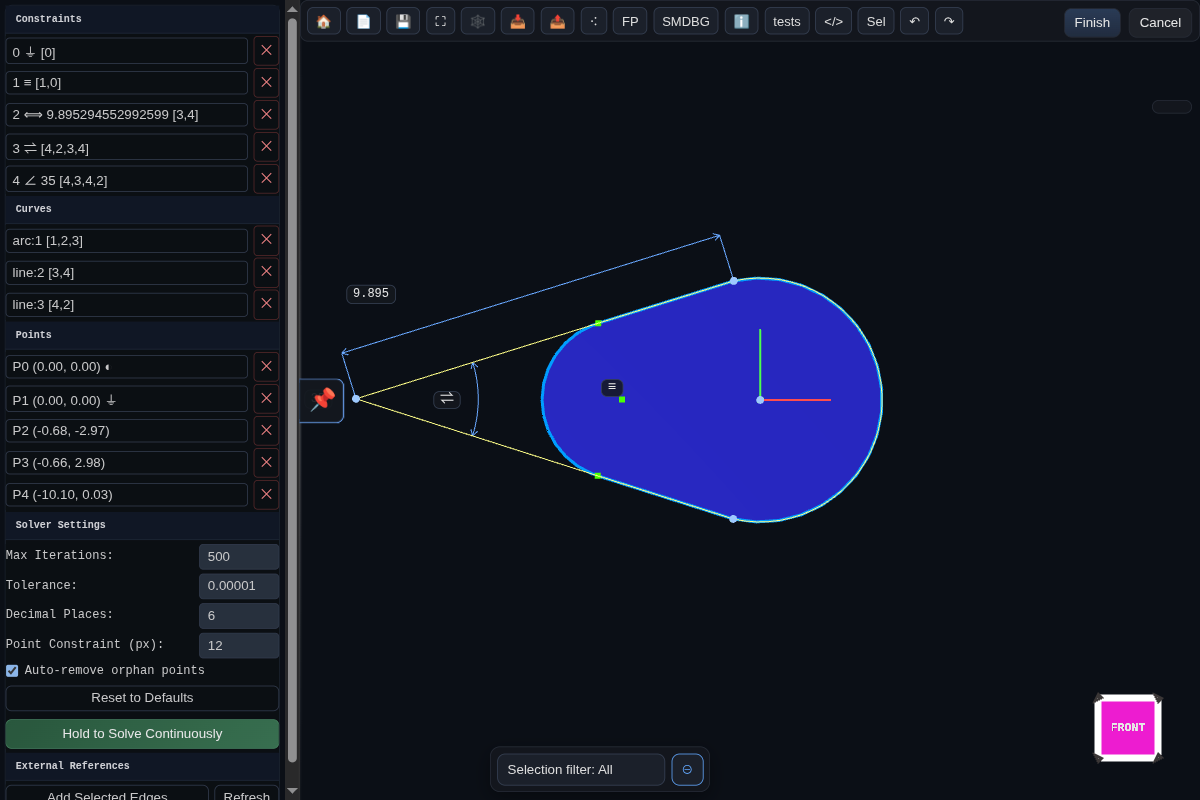
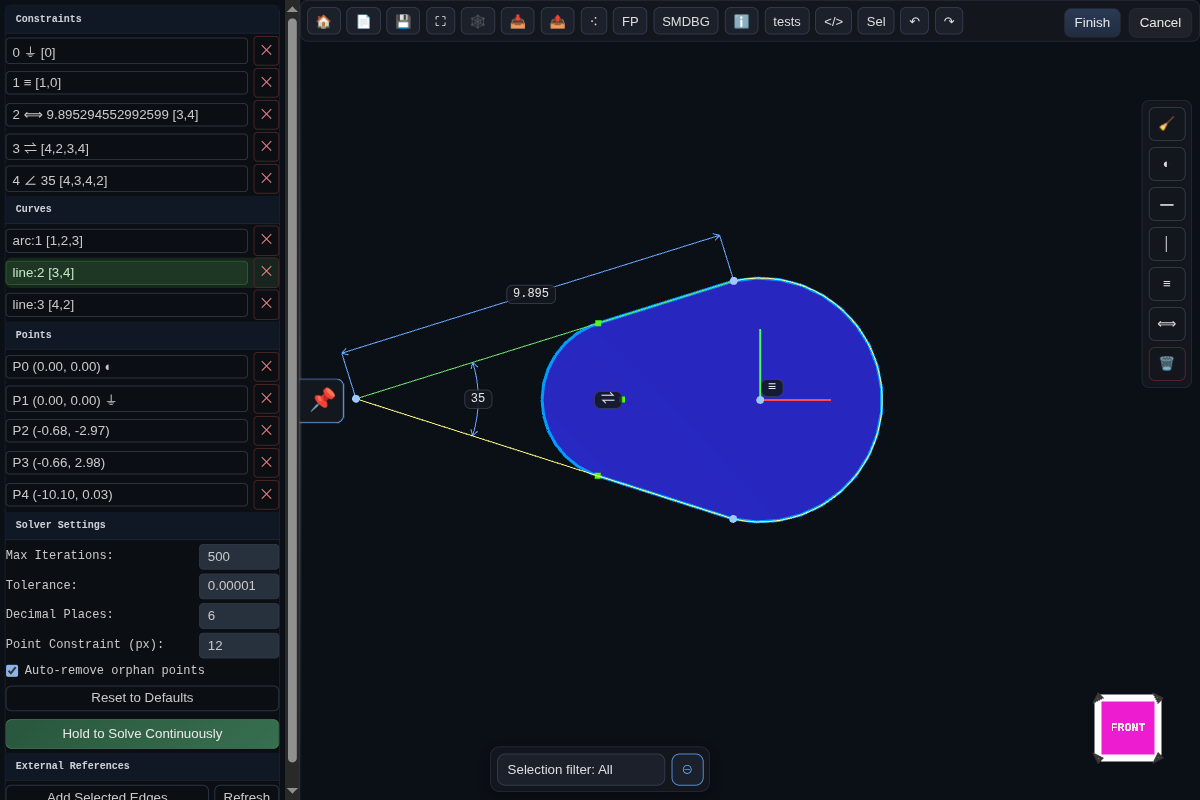
Docs code snippets code highlighting widget

diff --git a/generateLicenses.js b/generateLicenses.js
@@ -88,8 +88,22 @@ h1{margin:0 0 18px;font-size:22px;color:var(--accent);font-weight:700}
 .prose p{margin:0 0 10px}
 .prose ul,.prose ol{margin:0 0 10px 18px}
 .prose li{margin:4px 0}
-.prose code{background:#0d1520;border:1px solid var(--border);padding:1px 5px;border-radius:6px;font-family:ui-monospace,SFMono-Regular,Menlo,Consolas,'Liberation Mono','Courier New',monospace;font-size:12px}
-.prose pre{background:#0d1520;border:1px solid var(--border);padding:12px;border-radius:12px;overflow:auto}
+.prose :not(pre)>code{background:#0d1520;border:1px solid var(--border);padding:1px 5px;border-radius:6px;font-family:ui-monospace,SFMono-Regular,Menlo,Consolas,'Liberation Mono','Courier New',monospace;font-size:12px}
+.prose pre{margin:0;overflow:auto}
+.prose pre code{display:block;border:0;background:transparent;padding:0;white-space:pre;font-family:ui-monospace,SFMono-Regular,Menlo,Consolas,'Liberation Mono','Courier New',monospace;font-size:13px;line-height:1.55;color:#eef4ff}
+.prose .doc-codeblock{margin:14px 0;background:#1a2131;border:1px solid #3a4b74;border-radius:12px;overflow:hidden}
+.prose .doc-codeblock-header{display:flex;align-items:center;justify-content:space-between;gap:12px;padding:10px 14px;background:#2a3247;border-bottom:1px solid #3a4b74}
+.prose .doc-codeblock-lang{font-size:20px;line-height:1;color:#e7efff;text-transform:lowercase}
+.prose .doc-codeblock-body{padding:14px}
+.prose .doc-codeblock-copy{display:inline-flex;align-items:center;justify-content:center;width:30px;height:30px;border:1px solid transparent;border-radius:8px;background:transparent;color:#9fc5ff;cursor:pointer}
+.prose .doc-codeblock-copy:hover,.prose .doc-codeblock-copy:focus-visible{border-color:#4f6494;background:rgba(159,197,255,0.08);outline:none}
+.prose .doc-codeblock-copy-icon{display:block;width:18px;height:18px}
+.prose .doc-codeblock-copy-icon svg{display:block;width:100%;height:100%}
+.prose .doc-codeblock-copy.is-copied{color:#a8ffd4}
+.prose .doc-codeblock-copy.is-copied .doc-codeblock-copy-icon svg rect{stroke:currentColor}
+.prose .doc-codeblock-js .tok-keyword{color:#d68dff;font-weight:600}
+.prose .doc-codeblock-js .tok-string{color:#7be3a3}
+.prose .doc-codeblock-js .tok-comment{color:#76839f}
 .prose a{color:var(--accent)}
 .prose img{max-width:100%;height:auto;}
 .prose img.doc-gallery-trigger{cursor:zoom-in}
@@ -503,13 +517,81 @@ function parseTable(tableLines) {
   return { headers, alignments, dataRows };
 }
 
+const normalizeCodeLanguage = (rawLanguage = "") => {
+  const firstToken = String(rawLanguage || "").trim().split(/\s+/)[0].toLowerCase();
+  if (!firstToken) return "";
+  if (firstToken === "js" || firstToken === "cjs" || firstToken === "mjs") return "javascript";
+  if (firstToken === "ts" || firstToken === "tsx") return "typescript";
+  if (firstToken === "sh" || firstToken === "shell" || firstToken === "zsh") return "bash";
+  if (firstToken === "yml") return "yaml";
+  return firstToken;
+};
+
+const highlightJavaScriptCode = (rawCode = "") => {
+  const source = String(rawCode ?? "");
+  const tokenRegex = /(\/\/[^\n]*|\/\*[\s\S]*?\*\/|"(?:\\.|[^"\\])*"|'(?:\\.|[^'\\])*'|`(?:\\.|[^`\\])*`|\b(?:const|let|var|function|return|if|else|for|while|switch|case|break|continue|new|class|extends|import|from|export|default|try|catch|finally|throw|await|async|typeof|instanceof|in|of|null|undefined|true|false)\b)/g;
+  let out = "";
+  let lastIdx = 0;
+  for (const match of source.matchAll(tokenRegex)) {
+    const idx = Number(match.index || 0);
+    const token = match[0] || "";
+    out += escape(source.slice(lastIdx, idx));
+    if (token.startsWith("//") || token.startsWith("/*")) {
+      out += `<span class="tok-comment">${escape(token)}</span>`;
+    } else if (token.startsWith('"') || token.startsWith("'") || token.startsWith("`")) {
+      out += `<span class="tok-string">${escape(token)}</span>`;
+    } else {
+      out += `<span class="tok-keyword">${escape(token)}</span>`;
+    }
+    lastIdx = idx + token.length;
+  }
+  out += escape(source.slice(lastIdx));
+  return out;
+};
+
+const renderFencedCodeBlock = ({ language = "", code = "" } = {}) => {
+  const normalizedLanguage = normalizeCodeLanguage(language) || "code";
+  const languageLabel = escape(normalizedLanguage);
+  const languageClass = escape(normalizedLanguage.replace(/[^a-z0-9_-]/gi, "-"));
+  const codeText = String(code ?? "").replace(/\s+$/, "");
+  const codeHtml = normalizedLanguage === "javascript"
+    ? highlightJavaScriptCode(codeText)
+    : escape(codeText);
+  const codeBlockClass = normalizedLanguage === "javascript" ? "doc-codeblock doc-codeblock-js" : "doc-codeblock";
+  return `<div class="${codeBlockClass}" data-code-language="${languageLabel}">
+  <div class="doc-codeblock-header">
+    <span class="doc-codeblock-lang">${languageLabel}</span>
+    <button type="button" class="doc-codeblock-copy" data-copy-code aria-label="Copy code" title="Copy code">
+      <span class="doc-codeblock-copy-icon" aria-hidden="true">
+        <svg viewBox="0 0 24 24" fill="none">
+          <rect x="9" y="3" width="12" height="16" rx="2" stroke="currentColor" stroke-width="2"></rect>
+          <rect x="3" y="9" width="12" height="12" rx="2" stroke="currentColor" stroke-width="2"></rect>
+        </svg>
+      </span>
+    </button>
+  </div>
+  <div class="doc-codeblock-body"><pre><code class="language-${languageClass}">${codeHtml}</code></pre></div>
+</div>`;
+};
+
 function renderMarkdown(md, { assetBasePath = rootDir } = {}) {
   // Extract fenced code blocks first and replace with placeholders
   const codeBlocks = [];
   let tmp = md;
-  tmp = tmp.replace(/```([\s\S]*?)```/g, (_m, code) => {
+  tmp = tmp.replace(/```([\s\S]*?)```/g, (_m, rawBlock) => {
+    const block = String(rawBlock ?? "");
+    let language = "";
+    let code = block;
+    const firstLineMatch = block.match(/^([^\r\n]+)\r?\n([\s\S]*)$/);
+    if (firstLineMatch) {
+      const candidateLanguage = firstLineMatch[1].trim();
+      if (/^[a-z0-9_+-]{1,24}$/i.test(candidateLanguage)) {
+        language = candidateLanguage;
+        code = firstLineMatch[2];
+      }
+    }
     const idx = codeBlocks.length;
-    codeBlocks.push(`<pre><code>${escape(code.trim())}</code></pre>`);
+    codeBlocks.push(renderFencedCodeBlock({ language, code }));
     return `§§CODE${idx}§§`;
   });
 
@@ -626,12 +708,22 @@ function renderMarkdown(md, { assetBasePath = rootDir } = {}) {
   for (let i = 0; i < lines.length; i++) {
     const raw = lines[i];
     const line = raw.trimEnd();
+    const trimmedLine = line.trim();
     if (!line.trim()) {
       if (inTable) {
         flushTable();
       }
       if (inList) { html += `</${listType}>`; inList = false; listType = null; }
       flushPara();
+      continue;
+    }
+
+    // fenced code placeholder (restored after markdown block parsing)
+    if (/^§§CODE\d+§§$/.test(trimmedLine)) {
+      if (inTable) { flushTable(); }
+      if (inList) { html += `</${listType}>`; inList = false; listType = null; }
+      flushPara();
+      html += trimmedLine;
       continue;
     }
 
@@ -989,6 +1081,58 @@ ${content}
     }
   });
 
+  const initCodeCopyButtons = () => {
+    const copyButtons = Array.from(document.querySelectorAll("[data-copy-code]"));
+    if (!copyButtons.length) return;
+
+    const copyText = async (value) => {
+      if (navigator.clipboard?.writeText) {
+        await navigator.clipboard.writeText(value);
+        return true;
+      }
+      const ta = document.createElement("textarea");
+      ta.value = value;
+      ta.setAttribute("readonly", "readonly");
+      ta.style.position = "fixed";
+      ta.style.opacity = "0";
+      ta.style.pointerEvents = "none";
+      document.body.appendChild(ta);
+      ta.select();
+      let copied = false;
+      try {
+        copied = document.execCommand("copy");
+      } catch {
+        copied = false;
+      }
+      document.body.removeChild(ta);
+      return copied;
+    };
+
+    copyButtons.forEach((button) => {
+      button.addEventListener("click", async () => {
+        const wrapper = button.closest(".doc-codeblock");
+        const codeEl = wrapper?.querySelector("code");
+        const text = codeEl?.textContent || "";
+        if (!text.trim()) return;
+        let didCopy = false;
+        try {
+          didCopy = await copyText(text);
+        } catch {
+          didCopy = false;
+        }
+        if (!didCopy) return;
+        button.classList.add("is-copied");
+        button.setAttribute("aria-label", "Copied");
+        button.setAttribute("title", "Copied");
+        window.setTimeout(() => {
+          button.classList.remove("is-copied");
+          button.setAttribute("aria-label", "Copy code");
+          button.setAttribute("title", "Copy code");
+        }, 1200);
+      });
+    });
+  };
+
   const initImageGallery = () => {
     const proseRoot = document.querySelector(".prose");
     if (!proseRoot) return;
@@ -1220,6 +1364,7 @@ ${content}
     });
   };
 
+  initCodeCopyButtons();
   initImageGallery();
 })();
 </script>

diff --git a/scripts/capture/docsShots/sketchScreenshot.js b/scripts/capture/docsShots/sketchScreenshot.js
@@ -60,6 +60,109 @@ export async function prepareSketchScreenshot(page, fixtureJson) {
       controls?.update?.();
     };
 
+    const selectLineForContextToolbar = async () => {
+      const sketchMode = viewer._sketchMode;
+      const geometries = sketchMode?._solver?.sketchObject?.geometries;
+      if (!Array.isArray(geometries) || geometries.length === 0) return false;
+
+      const targetGeometry = geometries.find((geo) => String(geo?.type || '').toLowerCase() === 'line')
+        || geometries[0];
+      const targetId = Number(targetGeometry?.id);
+      if (!Number.isFinite(targetId)) return false;
+
+      const isSelected = () => Array.from(sketchMode?._selection || []).some(
+        (item) => item?.type === 'geometry' && Number(item?.id) === targetId,
+      );
+
+      const clickLineMidpointInViewport = async () => {
+        const camera = viewer.camera;
+        const rendererEl = viewer.renderer?.domElement;
+        const basis = sketchMode?._lock?.basis;
+        const points = sketchMode?._solver?.sketchObject?.points;
+        const linePointIds = Array.isArray(targetGeometry?.points) ? targetGeometry.points : [];
+        if (
+          !camera
+          || !rendererEl
+          || !basis?.origin
+          || !basis?.x
+          || !basis?.y
+          || !Array.isArray(points)
+          || linePointIds.length < 2
+        ) return false;
+
+        const id0 = Number(linePointIds[0]);
+        const id1 = Number(linePointIds[1]);
+        const p0 = points.find((point) => Number(point?.id) === id0);
+        const p1 = points.find((point) => Number(point?.id) === id1);
+        if (!p0 || !p1) return false;
+
+        const midX = (Number(p0.x) + Number(p1.x)) * 0.5;
+        const midY = (Number(p0.y) + Number(p1.y)) * 0.5;
+        if (!Number.isFinite(midX) || !Number.isFinite(midY)) return false;
+
+        const rect = rendererEl.getBoundingClientRect?.();
+        if (!rect || rect.width <= 0 || rect.height <= 0) return false;
+
+        const worldPoint = basis.origin.clone().addScaledVector(basis.x, midX).addScaledVector(basis.y, midY);
+        const ndc = worldPoint.project(camera);
+        if (!Number.isFinite(ndc.x) || !Number.isFinite(ndc.y)) return false;
+
+        const clientX = rect.left + ((ndc.x + 1) * 0.5) * rect.width;
+        const clientY = rect.top + ((1 - ndc.y) * 0.5) * rect.height;
+        if (
+          clientX < rect.left
+          || clientX > rect.right
+          || clientY < rect.top
+          || clientY > rect.bottom
+        ) return false;
+
+        const downOpts = {
+          bubbles: true,
+          cancelable: true,
+          clientX,
+          clientY,
+          button: 0,
+          buttons: 1,
+        };
+        const upOpts = {
+          bubbles: true,
+          cancelable: true,
+          clientX,
+          clientY,
+          button: 0,
+          buttons: 0,
+        };
+
+        try { sketchMode?._selection?.clear?.(); } catch { /* ignore */ }
+        if (typeof window.PointerEvent === 'function') {
+          rendererEl.dispatchEvent(new PointerEvent('pointerdown', { ...downOpts, pointerId: 1, pointerType: 'mouse', isPrimary: true }));
+          window.dispatchEvent(new PointerEvent('pointerup', { ...upOpts, pointerId: 1, pointerType: 'mouse', isPrimary: true }));
+        } else {
+          rendererEl.dispatchEvent(new MouseEvent('mousedown', downOpts));
+          window.dispatchEvent(new MouseEvent('mouseup', upOpts));
+        }
+        rendererEl.dispatchEvent(new MouseEvent('click', upOpts));
+        await new Promise((resolve) => requestAnimationFrame(() => resolve()));
+        return isSelected();
+      };
+
+      const wait = (ms) => new Promise((resolve) => setTimeout(resolve, ms));
+      for (let attempt = 0; attempt < 30; attempt += 1) {
+        const listRoot = sketchMode?._acc?.uiElement;
+        const rowButton = (listRoot && typeof listRoot.querySelector === 'function')
+          ? listRoot.querySelector(`[data-act="g:${targetId}"]`)
+          : null;
+        if (rowButton instanceof HTMLElement) {
+          try { sketchMode?._selection?.clear?.(); } catch { /* ignore */ }
+          rowButton.dispatchEvent(new MouseEvent('click', { bubbles: true, cancelable: true, view: window }));
+          await new Promise((resolve) => requestAnimationFrame(() => resolve()));
+          if (isSelected()) return true;
+        }
+        await wait(50);
+      }
+      return clickLineMidpointInViewport();
+    };
+
     const partHistory = viewer.partHistory;
     try { viewer.endSketchMode?.(); } catch { /* ignore */ }
     try { viewer.endPMIMode?.(); } catch { /* ignore */ }
@@ -90,8 +193,15 @@ export async function prepareSketchScreenshot(page, fixtureJson) {
       await new Promise((resolve) => requestAnimationFrame(() => resolve()));
       try { panSketchClearOfSidebar(); } catch { /* ignore */ }
     }
+    let didSelectLine = false;
+    try { didSelectLine = await selectLineForContextToolbar(); } catch { /* ignore */ }
+    if (!didSelectLine) {
+      // One final settle if async sidebar/list rendering lagged unexpectedly.
+      await new Promise((resolve) => setTimeout(resolve, 250));
+    }
+    await new Promise((resolve) => setTimeout(resolve, 300));
   }, { fixtureJsonValue: fixtureJson || '' });
 
   await page.waitForLoadState('networkidle');
-  await page.waitForTimeout(450);
+  await page.waitForTimeout(3000);
 }

diff --git a/docs/features/sketch.md b/docs/features/sketch.md
@@ -20,6 +20,14 @@ Sketch Mode opens the 2D sketcher on a selected plane or face. Geometry is const
 4. Refine profiles with Trim, construction toggles, and spline edits
 5. Use the sketch as input for other features like Extrude, Revolve, Sweep, or Loft
 
+### Recommended Day-to-Day Flow
+1. Start rough: lay down the main profile shape first (lines/arcs/circles), without over-constraining.
+2. Clean topology: trim overlaps, close loops, and mark helper geometry as construction (`◐`).
+3. Lock design intent: use the context toolbar to add only the constraints needed for predictable edits.
+4. Dimension critical values: set distances/angles/radii that should drive the design.
+5. Finish and consume: exit sketch, then drive solids from the sketch with Extrude/Revolve/Sweep/Loft.
+6. Re-open safely: when upstream geometry changes, edit the same sketch and keep downstream features live.
+
 ## Tool Icons
 Sketch Mode uses Unicode icon buttons for quick tool switching. The top toolbar includes:
 
@@ -77,6 +85,22 @@ A floating context toolbar follows the sketch viewport and updates itself based 
 - **Construction toggle** – Any time geometry is highlighted the toolbar shows a toggle that flips the selection between regular sketch curves and construction geometry. Construction curves remain in the sketch for constraints but are ignored when profiles are consumed by downstream features.
 - **Fix / Unfix** – When one or more points are selected the toolbar offers a fast fix toggle, adding or removing `⏚` constraints without opening the constraint picker.
 - **Cleanup & delete** – The toolbar always offers a cleanup button (🧹) to remove orphan points, and shows delete actions when a selection is active.
+
+### Context Toolbar Workflow
+Use selection as the main driver of what appears:
+
+1. Select geometry or points first.
+2. Read the toolbar options that appear for that exact selection.
+3. Apply one constraint/dimension at a time.
+4. Drag a point to verify behavior, then add the next constraint.
+5. Use cleanup/delete/construction toggles as needed before finishing.
+
+Typical passes:
+
+1. `Two lines` -> add `∥`, `⟂`, `∠`, or `⇌` to establish relationships.
+2. `One line + one point` -> add `↥` for perpendicular offset control.
+3. `One arc/circle` -> add `R` or `⌀` to lock radial intent.
+4. `Points` -> add `⏚`, `━`, `│`, `≡`, `⟺`, `⋯` based on the design intent.
 
 ### Context Action Icons
 | Icon | Action | Notes |
